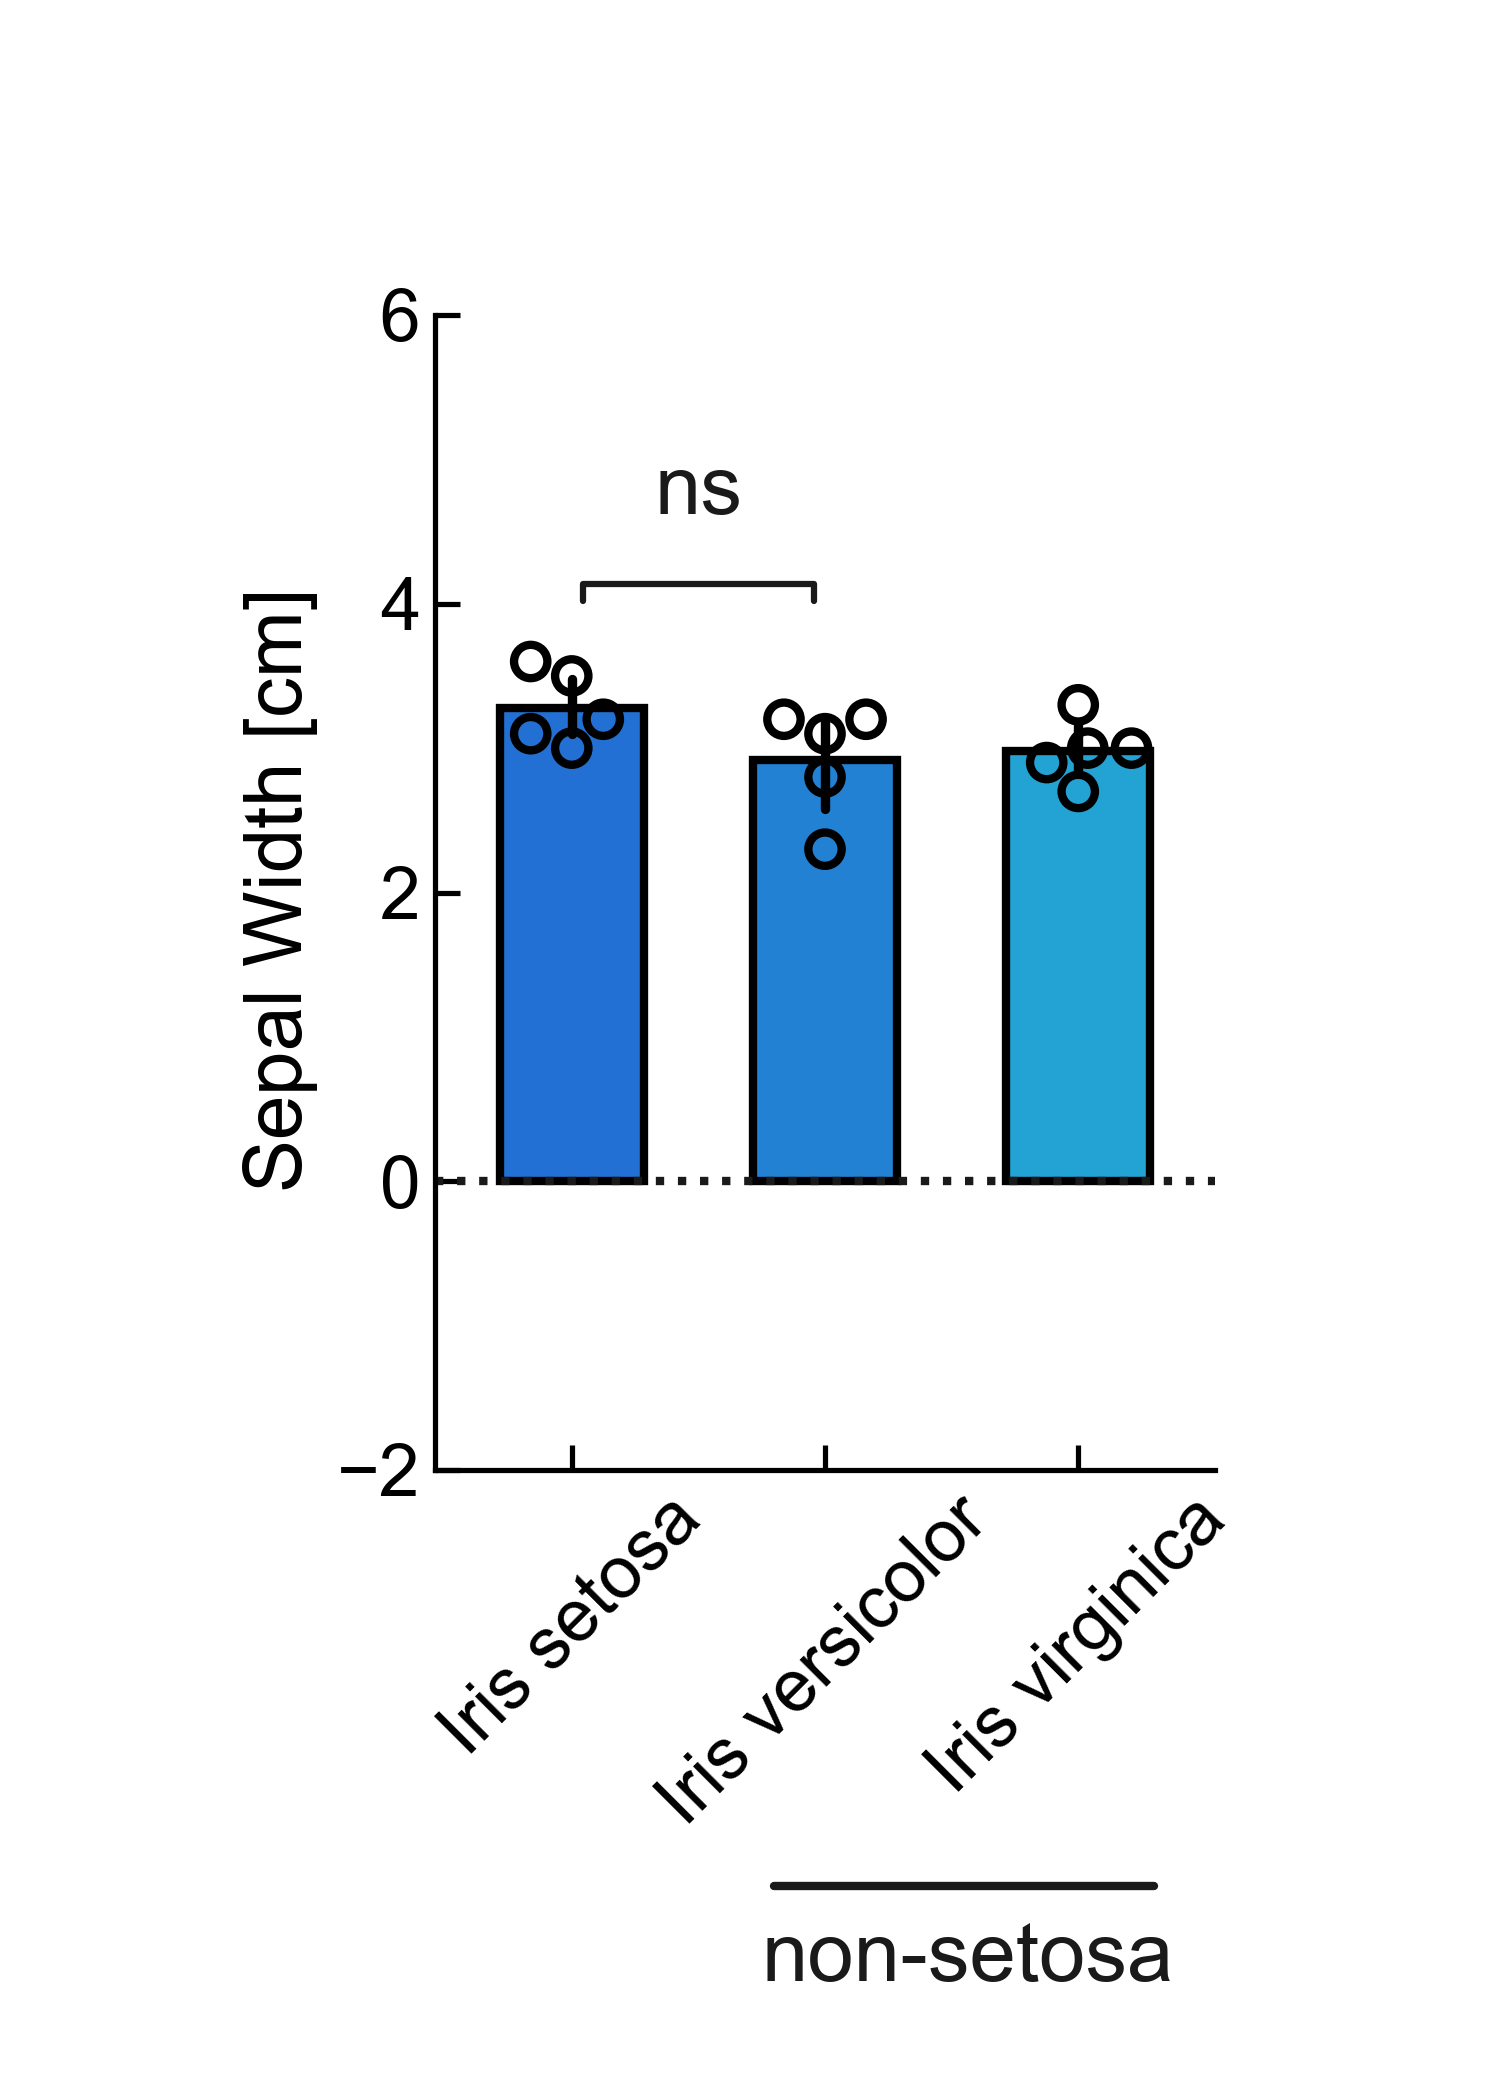
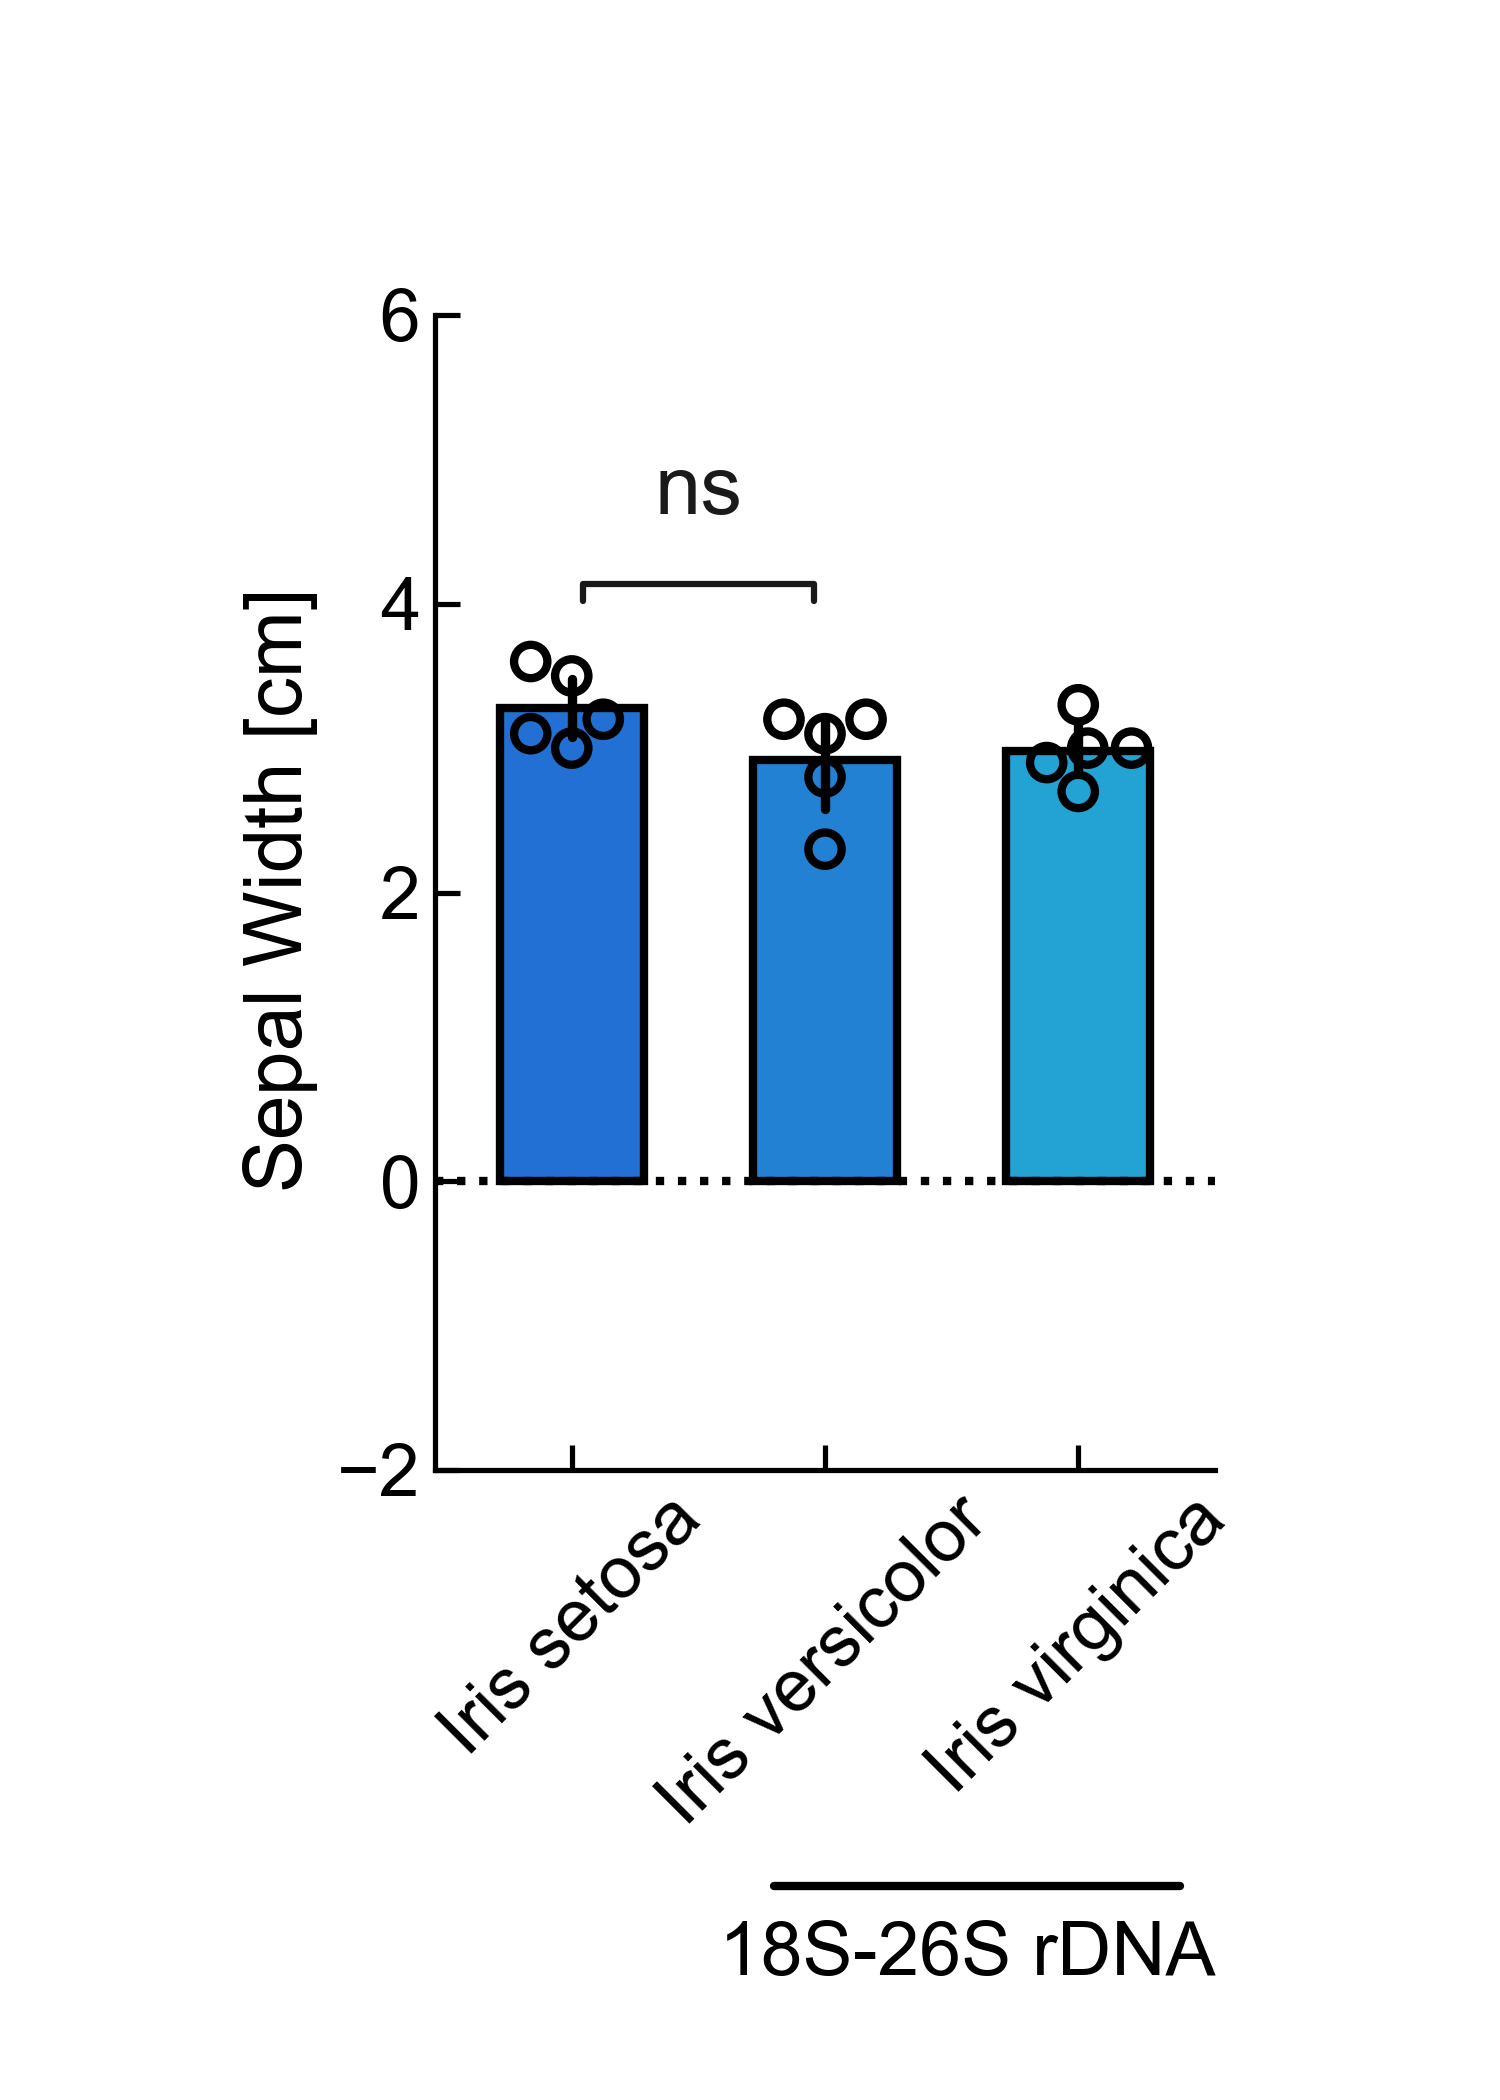
Annotation modification.

Changed region(s): [[0.4907, 0.8976, 0.7973, 0.9595]]

diff --git a/bar_plot.py b/bar_plot.py
@@ -66,7 +66,7 @@ def generate_plot(df,
         for collection in ax.collections:
             collection.set_edgecolor("black")
 
-        ax.axhline(y=0, color='k', linestyle=':', linewidth=2)
+        ax.axhline(y=0, color='black', linestyle=':', linewidth=2)
 
         # annotation significance method 1 (using mannwhitneyu test on the data)
         current_df = df
@@ -132,12 +132,14 @@ def generate_plot(df,
 
         # add global title
         if super_title is not None:
-            fig.suptitle(super_title, fontsize="large", color="k")
+            fig.suptitle(super_title, fontsize="large", color="black")
 
         # draw line and text below group labels
         trans = ax.get_xaxis_transform()
-        ax.plot([0.8, 2.3], [-.36, -.36], color="k", transform=trans, clip_on=False, linewidth=2)
-        plt.figtext(0.645, 0.085, "non-setosa", ha="center", va="top", fontsize=20, color="k")
+        ax.plot([0.8, 2.4], [-.36, -.36],
+                color="black", transform=trans, clip_on=False, linewidth=2)
+        plt.figtext(0.645, 0.085, "18S-26S rDNA",
+                    ha="center", va="top", fontsize=18, color="black")
 
 
 if __name__ == '__main__':
